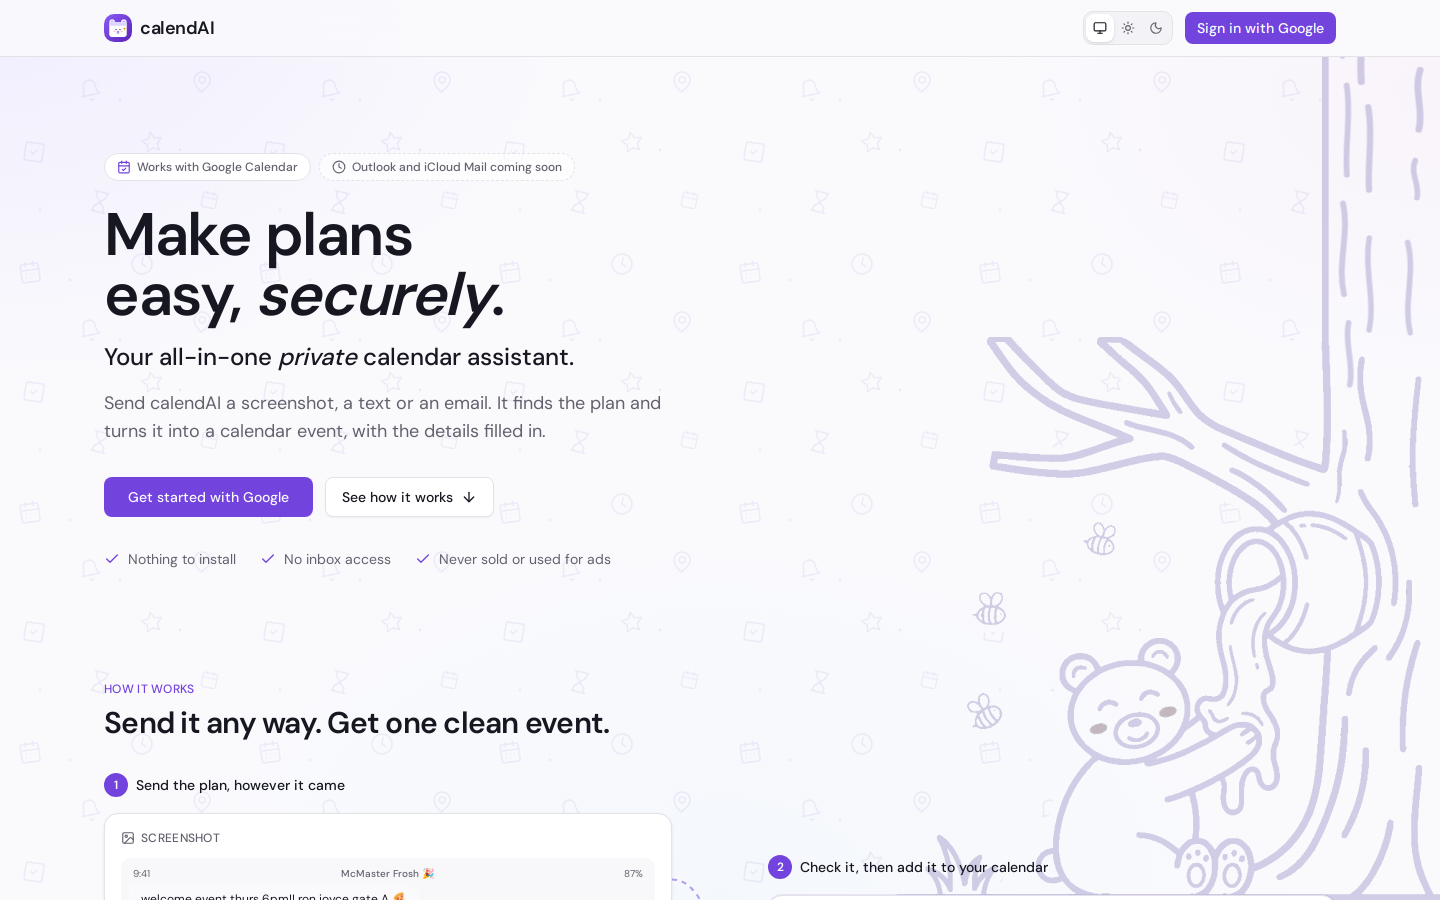
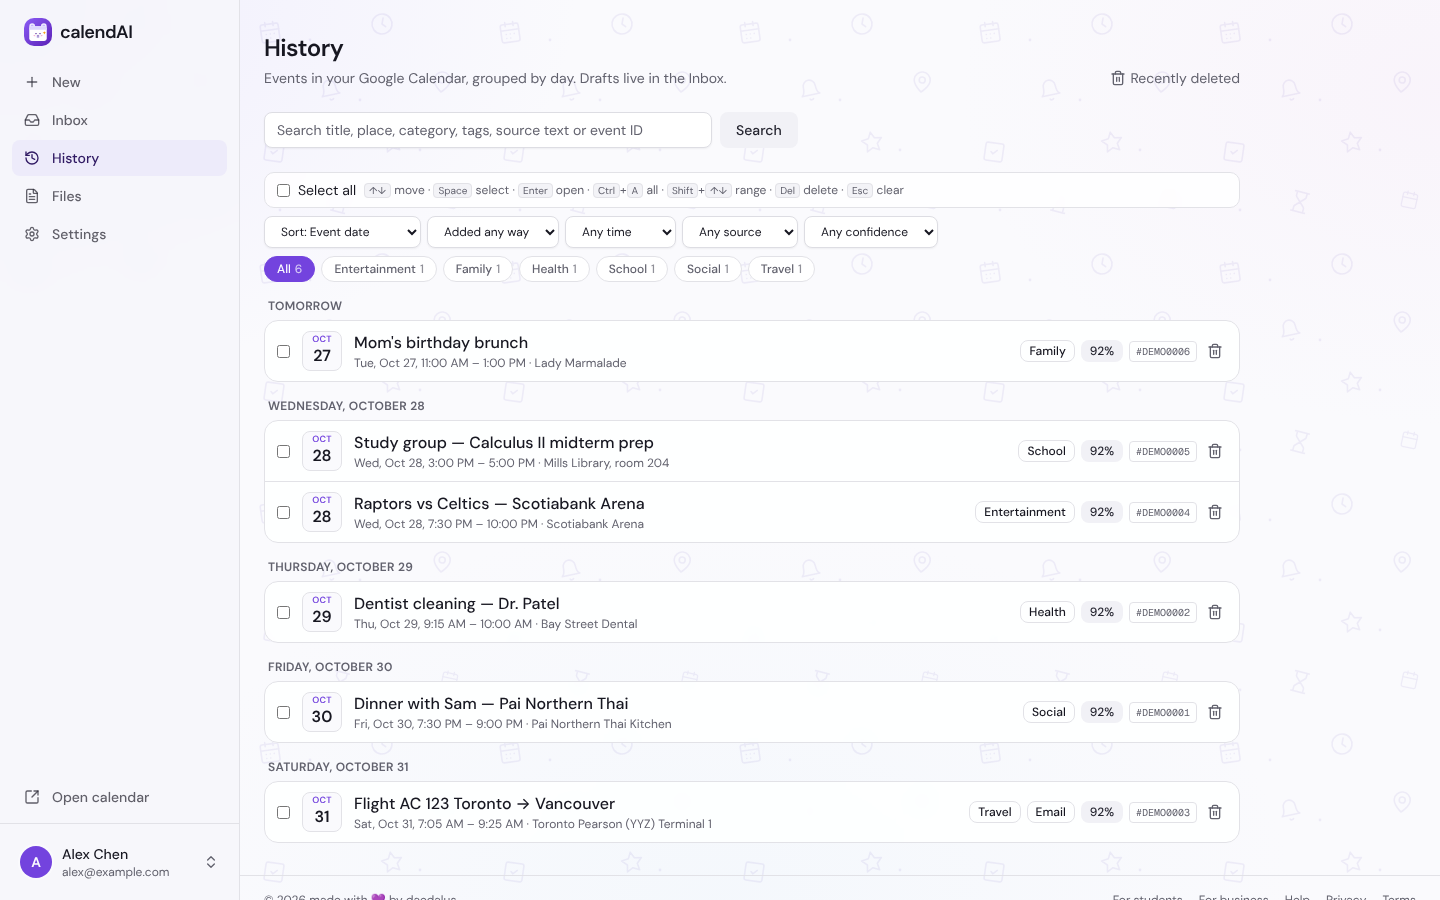
Use mock-account shots for calendAI and Scrapify, add Washtag, dark dmphotos
calendAI shows the History page and Scrapify the dashboard, each captured
from a local copy of the app signed in to a mock account with mock data.
The screenshot workflow now covers status of ai, dmphotos (dark mode) and
Washtag only.

Claude-Session: https://claude.ai/code/session_01YHNpcif1wdkaemwevy54Sc

diff --git a/README.md b/README.md
@@ -10,7 +10,7 @@ Projects live in the `PROJECTS` array near the bottom of `index.html`: name, url
 
 ## Screenshots
 
-`shots/` holds real screenshots of each live site. The Screenshots workflow refreshes them every Monday; run it from the Actions tab to refresh now. Add a new site to `scripts/screenshots.mjs` as well as to `PROJECTS`.
+`shots/` holds real screenshots. The Screenshots workflow refreshes the public sites (status of ai, dmphotos in dark mode, Washtag) every Monday; run it from the Actions tab to refresh now. calendAI (History page) and Scrapify (dashboard) need sign-in, so their shots were taken from local copies of each app with a mock account and mock data, and the workflow leaves them alone.
 
 ## Deploy
 
